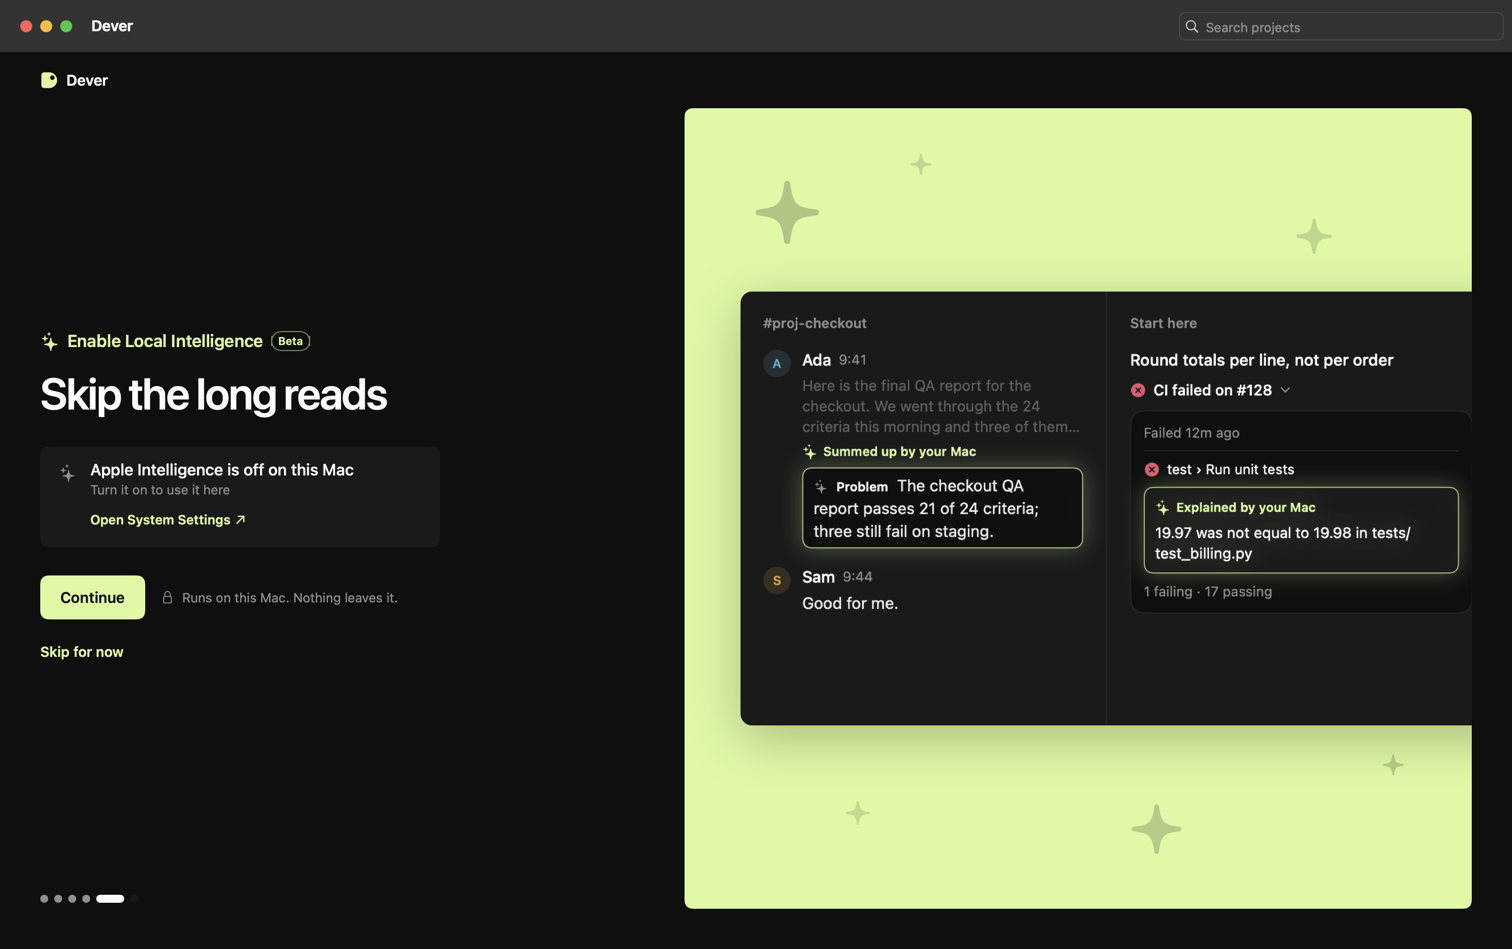
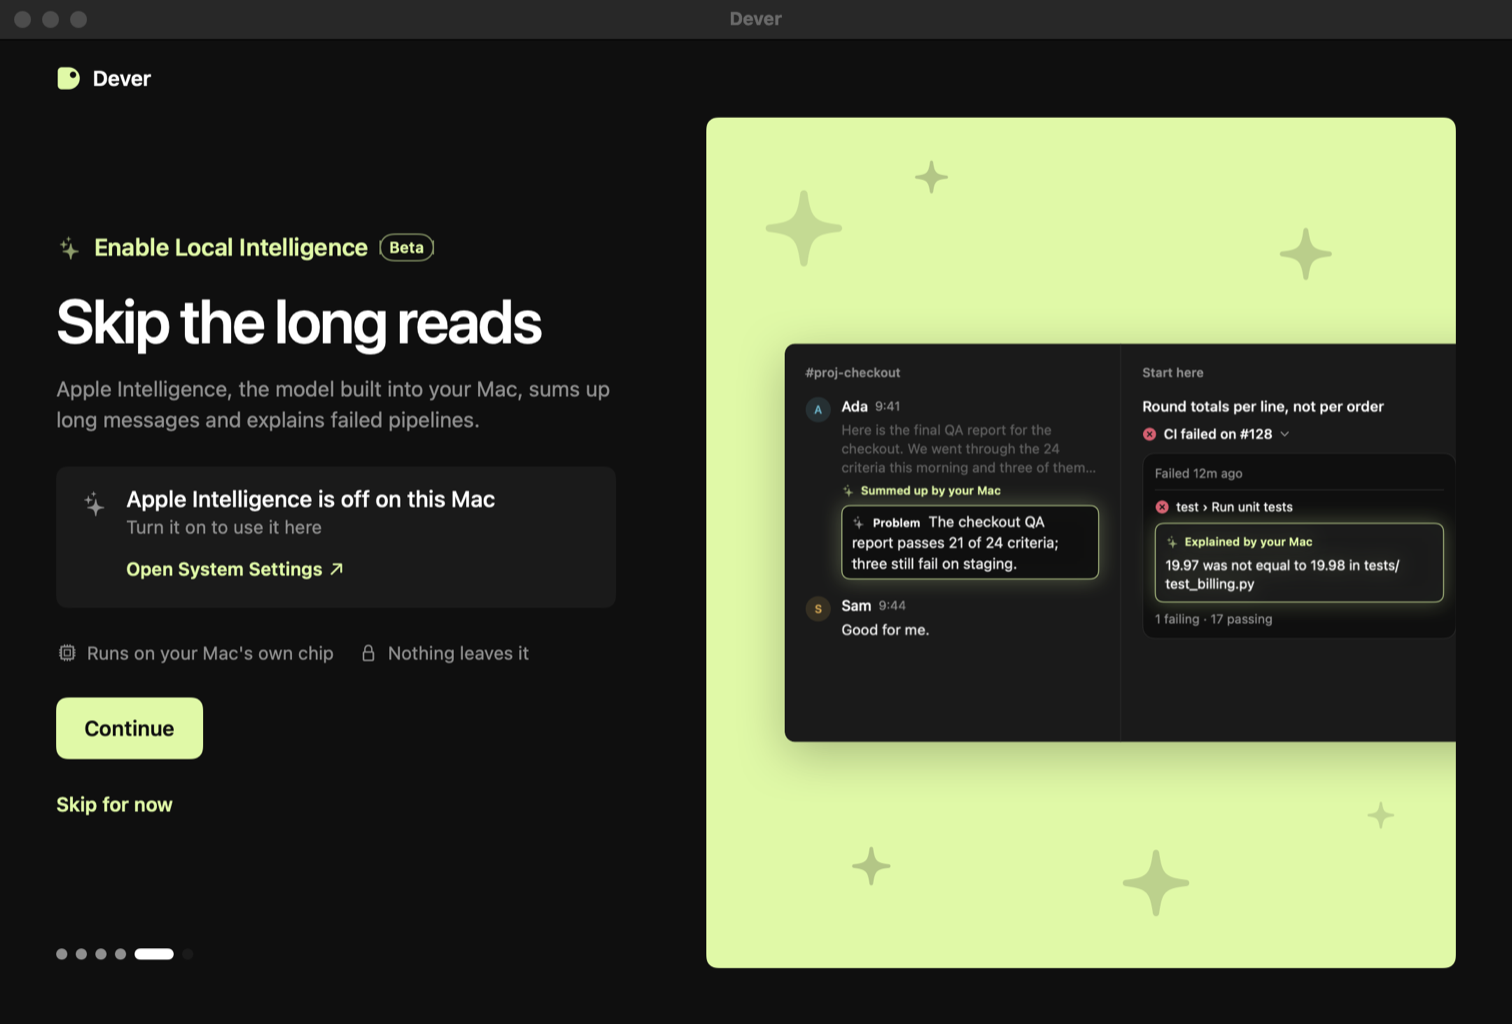
Onboarding: the Intelligence stage names Apple Intelligence, asks on or off in two rows, and says what it costs

diff --git a/Sources/Dever/Views/OnboardingIntelligence.swift b/Sources/Dever/Views/OnboardingIntelligence.swift
@@ -1,10 +1,12 @@
 import SwiftUI
 
-// The Intelligence stage of onboarding (docs/on-device-ai.md, section 6): what the Mac's own
-// model does in Dever today, one switch per use over the same keys as Settings › Intelligence,
-// and on the stage a long message and a failed pipeline that answer to the switches. While the
-// model is off or not ready, the reason and the way to System Settings instead of the switches.
-// On a Mac that can never run the model the stage is not part of the flow at all.
+// The Intelligence stage of onboarding (docs/on-device-ai.md, section 6): one question, whether
+// Dever uses the model built into the Mac. It says whose model it is (Apple Intelligence), what
+// it does here, and what it costs (nothing to install, nothing leaves the Mac); two rows answer
+// it, on or off, over the same keys as Settings › Intelligence, and on the stage a long message
+// and a failed pipeline show the answer. While the model is off or not ready, the reason and the
+// way to System Settings instead of the rows. On a Mac that can never run the model the stage
+// is not part of the flow at all.
 
 /// The uses the stage presents, in its order: those that exist in this build and have a picture.
 enum OnboardingIntelligence {
@@ -12,24 +14,24 @@ enum OnboardingIntelligence {
         [.messageSummary, .explainFailure].filter(IntelligenceFeature.built.contains)
     }
 
-    /// One short line under a use's title; the picture on the stage says the rest.
-    static func detail(_ feature: IntelligenceFeature) -> String {
-        switch feature {
-        case .messageSummary: "One sentence in their place"
-        case .explainFailure: "Why a pipeline failed, when you ask"
-        default: feature.detail ?? ""
-        }
-    }
-
-    static func symbol(_ feature: IntelligenceFeature) -> String {
-        feature == .explainFailure ? "xmark.circle" : "text.alignleft"
-    }
-
     /// What the stage asks, above its headline.
     static let name = "Enable Local Intelligence"
 
-    /// The promise of rule 3, in the app's own words.
-    static let privacy = "Runs on this Mac. Nothing leaves it."
+    /// Whose model it is and what it does here, in one sentence.
+    static let lead = "Apple Intelligence, the model built into your Mac, sums up long messages and explains failed pipelines."
+
+    /// What turning it on gives, under the row that does.
+    static let onDetail = "Long messages summed up, failures explained"
+    static let offDetail = "Turn it on any time in Settings"
+
+    /// What it costs, as short facts with a glyph each. "Nothing to install" only while the
+    /// model is there: off or not ready, the system may still have it to fetch. Never a word
+    /// on speed or power: a summary keeps the Mac's chip busy for a second or three.
+    static func terms(_ availability: IntelligenceAvailability) -> [(symbol: String, text: String)] {
+        var terms = [("cpu", "Runs on your Mac's own chip"), ("lock", "Nothing leaves it")]
+        if availability == .available { terms.append(("checkmark.circle", "Nothing to install")) }
+        return terms
+    }
 
     /// What the model's state means here, while there is nothing to switch.
     static func waiting(_ availability: IntelligenceAvailability) -> (title: String, detail: String) {
@@ -41,10 +43,22 @@ enum OnboardingIntelligence {
 
 struct IntelligenceControls: View {
     @ObservedObject private var status = IntelligenceStatus.shared
+    @AppStorage(IntelligenceFeature.messageSummary.settingKey) private var summaries = true
+    @AppStorage(IntelligenceFeature.explainFailure.settingKey) private var failures = true
     let next: () -> Void
 
+    /// On while any of its uses is: Settings can switch them one by one.
+    private var on: Bool {
+        OnboardingIntelligence.features.contains { $0 == .messageSummary ? summaries : failures }
+    }
+
+    /// The answer, written at once to the keys Settings reads, every use together.
+    private func choose(_ value: Bool) {
+        for feature in OnboardingIntelligence.features { IntelligencePreferences.set(feature, on: value) }
+    }
+
     var body: some View {
-        VStack(alignment: .leading, spacing: 28) {
+        VStack(alignment: .leading, spacing: 24) {
             VStack(alignment: .leading, spacing: 14) {
                 // What is being asked, by name, before the benefit: the sparkle is the mark every
                 // generated text carries in the app, here lit and alive.
@@ -57,66 +71,75 @@ struct IntelligenceControls: View {
                     StageTag(kind: .beta)
                 }
                 Headline(text: "Skip the long reads")
+                Text(OnboardingIntelligence.lead).font(.system(size: 15)).foregroundStyle(Soot.muted)
+                    .lineSpacing(3).fixedSize(horizontal: false, vertical: true)
+                    .frame(maxWidth: 400, alignment: .leading)
             }
             Group {
                 if status.availability == .available {
                     VStack(spacing: 8) {
-                        ForEach(OnboardingIntelligence.features) { IntelligenceChoice(feature: $0) }
+                        choice(selected: on, title: "Turn it on", tag: "Recommended",
+                               detail: OnboardingIntelligence.onDetail) { choose(true) }
+                        choice(selected: !on, title: "Not now", tag: nil,
+                               detail: OnboardingIntelligence.offDetail) { choose(false) }
                     }
+                    .accessibilityElement(children: .contain)
+                    .accessibilityLabel("Local Intelligence")
                 } else {
                     IntelligenceWaiting(availability: status.availability)
                 }
             }
             .frame(maxWidth: 400)
-            HStack(spacing: 16) {
-                Button("Continue", action: next)
-                    .buttonStyle(PrimaryButton(size: .sheet))
-                    .keyboardShortcut(.defaultAction)
-                Label(OnboardingIntelligence.privacy, systemImage: "lock")
-                    .font(.system(size: 13))
-                    .foregroundStyle(Soot.muted)
-                    .fixedSize(horizontal: false, vertical: true)
-            }
+            terms
+            Button("Continue", action: next)
+                .buttonStyle(PrimaryButton(size: .sheet))
+                .keyboardShortcut(.defaultAction)
         }
         .motion(Motion.ui, fade: true, value: status.availability)
     }
-}
 
-/// One use of the model as a row that is its own switch: the whole row toggles it.
-private struct IntelligenceChoice: View {
-    let feature: IntelligenceFeature
-    @AppStorage private var on: Bool
-
-    init(feature: IntelligenceFeature) {
-        self.feature = feature
-        _on = AppStorage(wrappedValue: true, feature.settingKey)
+    /// The facts on one line where they fit, one under the other where they do not.
+    private var terms: some View {
+        let labels = ForEach(OnboardingIntelligence.terms(status.availability), id: \.text) { term in
+            HStack(spacing: 6) {
+                Image(systemName: term.symbol).font(.system(size: 12, weight: .medium)).frame(width: 16)
+                    .accessibilityHidden(true)
+                Text(term.text).font(.system(size: 13)).lineLimit(1).fixedSize()
+            }
+            .foregroundStyle(Soot.muted)
+        }
+        return ViewThatFits(in: .horizontal) {
+            HStack(spacing: 16) { labels }
+            VStack(alignment: .leading, spacing: 6) { labels }
+        }
+        .frame(maxWidth: 400, alignment: .leading)
     }
 
-    var body: some View {
-        Button { IntelligencePreferences.set(feature, on: !on) } label: {
+    /// One of the two answers, as the channel-naming stage draws its own: a ring, the title,
+    /// one short line, a lime edge on the one that holds.
+    private func choice(selected: Bool, title: String, tag: String?, detail: String, select: @escaping () -> Void) -> some View {
+        Button(action: select) {
             HStack(spacing: 12) {
-                Image(systemName: OnboardingIntelligence.symbol(feature)).font(.system(size: 16))
-                    .foregroundStyle(on ? Soot.lime : Soot.muted).frame(width: 22)
+                CheckCircle(on: selected).frame(width: 22)
                 VStack(alignment: .leading, spacing: 2) {
-                    Text(feature.title).font(.system(size: 16, weight: .medium)).foregroundStyle(Soot.ink)
-                    Text(OnboardingIntelligence.detail(feature)).font(.system(size: 13)).foregroundStyle(Soot.muted)
-                        .lineLimit(1)
+                    HStack(spacing: 8) {
+                        Text(title).font(.system(size: 16, weight: .medium)).foregroundStyle(Soot.ink)
+                        if let tag {
+                            Text(tag).font(.system(size: 11, weight: .semibold)).foregroundStyle(Soot.lime)
+                        }
+                    }
+                    Text(detail).font(.system(size: 13)).foregroundStyle(Soot.muted).lineLimit(1)
                 }
                 Spacer()
-                // Drawn by the system so it reads as a switch; the row is the control.
-                Toggle(feature.title, isOn: .constant(on))
-                    .labelsHidden().toggleStyle(.switch).tint(Soot.lime).controlSize(.small)
-                    .allowsHitTesting(false)
             }
             .padding(.horizontal, 16)
             .frame(height: 64)
             .background(Soot.surface, in: RoundedRectangle(cornerRadius: Soot.radius))
+            .overlay(RoundedRectangle(cornerRadius: Soot.radius).strokeBorder(selected ? Soot.lime.opacity(0.5) : .clear))
         }
         .buttonStyle(RowButton(lift: .tone, radius: Soot.radius))
-        .accessibilityElement(children: .ignore)
-        .accessibilityLabel("\(feature.title). \(OnboardingIntelligence.detail(feature))")
-        .accessibilityValue(on ? "On" : "Off")
-        .accessibilityAddTraits(.isToggle)
+        .accessibilityLabel("\(title). \(detail)")
+        .accessibilityAddTraits(selected ? .isSelected : [])
     }
 }
 

diff --git a/Tests/DeverTests/OnboardingIntelligenceTests.swift b/Tests/DeverTests/OnboardingIntelligenceTests.swift
@@ -26,6 +26,18 @@ final class OnboardingIntelligenceTests: XCTestCase {
         XCTAssertTrue(OnboardingIntelligence.features.allSatisfy(IntelligenceFeature.built.contains))
     }
 
+    func testNothingToInstallIsSaidOnlyWhileTheModelIsThere() {
+        let said = { (a: IntelligenceAvailability) in OnboardingIntelligence.terms(a).map(\.text) }
+        XCTAssertTrue(said(.available).contains("Nothing to install"))
+        XCTAssertFalse(said(.notReady).contains("Nothing to install"))
+        XCTAssertFalse(said(.off).contains("Nothing to install"))
+        XCTAssertTrue(said(.off).contains("Nothing leaves it"))
+    }
+
+    func testTheStageNamesAppleIntelligence() {
+        XCTAssertTrue(OnboardingIntelligence.lead.contains("Apple Intelligence"))
+    }
+
     @MainActor
     func testTheSwitchWritesTheKeySettingsReadsAndDropsWhatWasWritten() async {
         let name = "onboarding-intelligence-\(UUID().uuidString)"

diff --git a/docs/on-device-ai.md b/docs/on-device-ai.md
@@ -392,12 +392,21 @@ Summaries
 - **Onboarding** has an Intelligence stage (`OnboardingIntelligence.swift`), after the channel names and
   before the first project: the tools are connected and described by then, and the projects are the way
   out of onboarding. It replaces the quiet line the Connect stage carried while there was nothing to choose.
-  - **Left:** above the headline, what is asked, by name: a lit sparkle, "Enable Local Intelligence" in
-    lime and the word Beta (its tooltip gives the meaning). A first form had the word Beta alone there,
-    and the user found the screen did not say what it was about. Then the headline "Skip the long reads", one row
-    per built use that has a picture ("Long messages", "Explain a failure"), each with one short line and
-    a switch, then Continue beside the promise of rule 3: "Runs on this Mac. Nothing leaves it." The
-    whole row is the switch; VoiceOver hears the title, the line and On or Off.
+  - **Left,** top to bottom: what is asked, by name (a lit sparkle, "Enable Local Intelligence" in lime
+    and the word Beta, whose tooltip gives the meaning); the headline "Skip the long reads"; one
+    sentence that says whose model it is and what it does here ("Apple Intelligence, the model built
+    into your Mac, sums up long messages and explains failed pipelines."); the answer, as two rows
+    drawn like the channel-naming stage's ("Turn it on", Recommended, and "Not now", with "Turn it on
+    any time in Settings"); what it costs, as three short facts with a glyph each ("Runs on your Mac's
+    own chip", "Nothing leaves it", "Nothing to install"); Continue.
+  - **Why this shape.** A first form had the word Beta alone above the headline and one switch per
+    use: the user found that the screen did not say what it was about, did not say it was Apple's
+    model running on the Mac, had no plain way to say no, and did not say that nothing had to be
+    installed. The switches per use stay in Settings; here the question is one.
+  - **What is not said.** "Nothing to install" shows only while the model is there (off or not ready,
+    the system may still have it to fetch). Nothing claims that it uses no resources: a summary keeps
+    the chip busy for one to three seconds (section 2). The chip is not named (the framework does not
+    say which part of it runs the model).
   - **Right:** on the lime stage, in the place of the window crop, a made-up project page: a long message
     of the rail as its summary, a failed pipeline with its card and the sentence behind the sparkle. What
     the Mac wrote is lit, which it never is in the app (section 4): a lime edge and a soft lime light,
@@ -405,17 +414,19 @@ Summaries
     as it came stays above its summary, dimmed, so the picture reads as before and after. Large
     sparkles sit on the lime stage around it. Every sparkle of the stage breathes on a 2.4 s beat
     (`Twinkle`), still under Reduce Motion. The
-    picture answers to the switches: off, the message is cut at four lines with "Show more" and the
+    picture answers to the choice: with "Not now", the message is cut at four lines with "Show more" and the
     failed state is plain, with no card. It is a picture: nothing in it is clickable or read by the model.
-  - **One source of truth:** the switches are the keys of Settings › Intelligence
-    (`IntelligenceFeature.settingKey`), written in one place by both screens
-    (`IntelligencePreferences.set`), which also drops what a use had written when it goes off. On by
-    default, as in Settings. The language of summaries is not asked here; Settings has it.
-  - **Off or not ready:** the same stage with, in the place of the switches, one row: "Apple Intelligence
+  - **One source of truth:** a row writes, at once and for every use the stage presents, the keys of
+    Settings › Intelligence (`IntelligenceFeature.settingKey`), through the one function both screens
+    use (`IntelligencePreferences.set`), which also drops what a use had written when it goes off. On
+    by default, as in Settings; "Turn it on" shows as chosen while any use is on, and nothing is
+    written until a row is clicked, so a choice made use by use in Settings survives a replay. The
+    language of summaries is not asked here; Settings has it.
+  - **Off or not ready:** the same stage with, in the place of the two rows, one row: "Apple Intelligence
     is off on this Mac" and "Turn it on to use it here", or "Apple Intelligence is not ready on this Mac
     yet" and "Dever will use it once it is ready" (never "downloading", section 7), with "Open System
     Settings ↗". The picture stays: it shows what Dever will do. Back from System Settings the stage
-    shows the switches by itself (`IntelligenceStatus`).
+    shows the two rows by itself (`IntelligenceStatus`).
   - **A Mac that can never run it** (macOS before 26, `deviceNotEligible`): the stage is left out, with
     its progress mark (`OnboardingView.Stage.flow`). Showing it disabled was set aside: every other
     stage asks one thing the user can answer, and here there would be nothing to choose and nothing to
